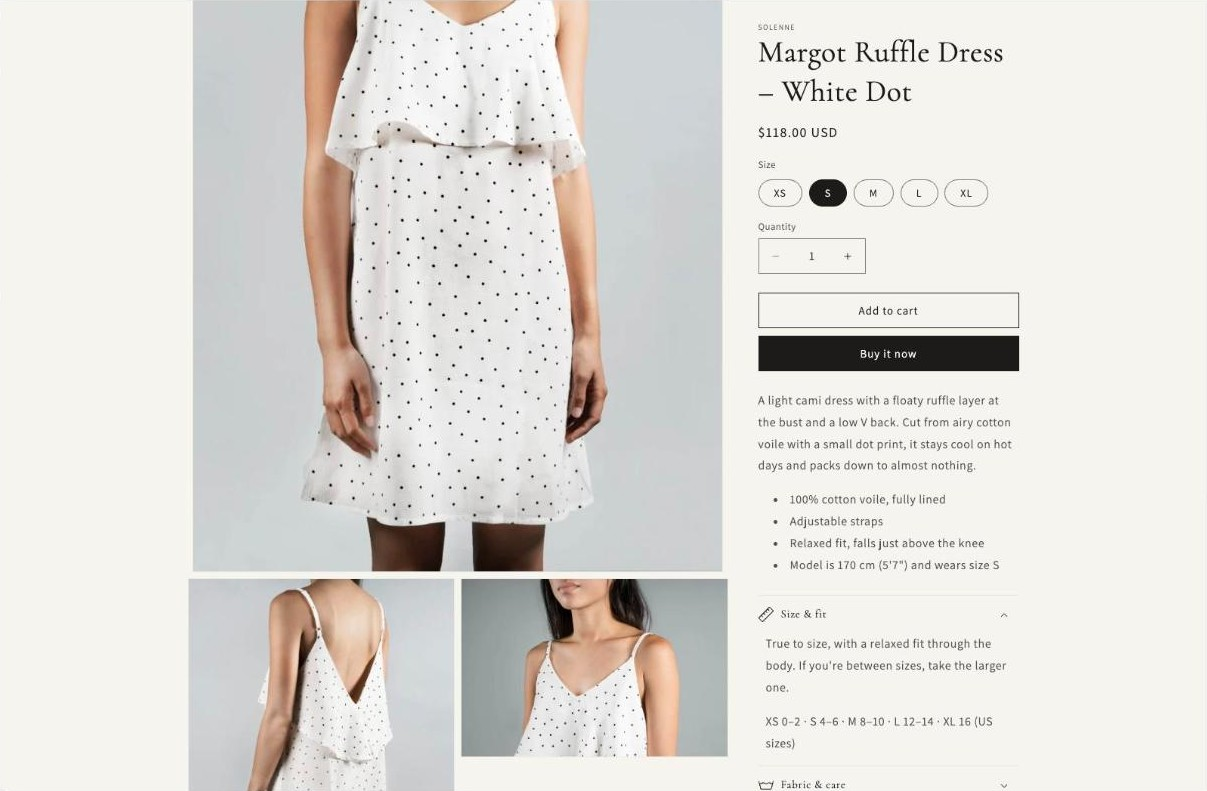
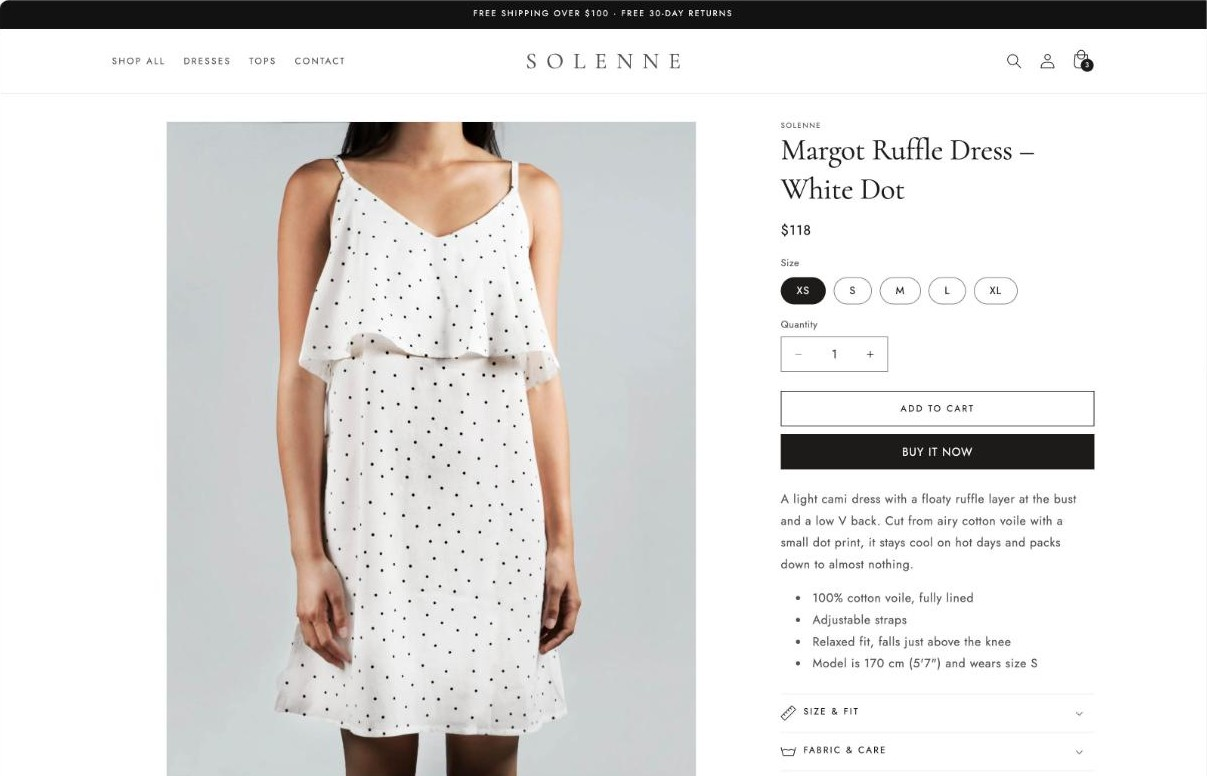
Shopify demo: premium store look and new screenshots
New brand layer on top of Dawn (wordmark, small uppercase labels,
product cards, lookbook, story block, trust row, footer), prices
without cents, phone header fix. Screenshots re-taken from the
published v4 theme; brand stylesheet added under store/.

Claude-Session: https://claude.ai/code/session_01FZvhtAYuoav6hM9DCPM7bq

diff --git a/07-shopify-sections/store/solenne-brand.css b/07-shopify-sections/store/solenne-brand.css
@@ -1,0 +1,150 @@
+/*
+  Solenne brand layer on top of Dawn.
+  Store styling only: wordmark, small uppercase labels, product card type, spacing.
+  Loaded after base.css in layout/theme.liquid.
+*/
+
+/* Wordmark: the shop name as a wide, uppercase logo */
+.header__heading-link .h2 {
+  font-family: var(--font-heading-family);
+  font-weight: 400;
+  font-size: 2.4rem;
+  line-height: 1;
+  letter-spacing: 0.42em;
+  margin-right: -0.42em; /* keeps the word optically centred */
+  text-transform: uppercase;
+  white-space: nowrap;
+}
+
+@media screen and (min-width: 990px) {
+  .header__heading-link .h2 {
+    font-size: 3rem;
+  }
+}
+
+/* Small uppercase labels: navigation, announcement, footer headings */
+.header__menu-item,
+.announcement-bar__message,
+.footer-block__heading,
+.multicolumn-card__info > h3,
+.image-with-text__text--caption {
+  font-family: var(--font-body-family);
+  font-weight: 400;
+  letter-spacing: 0.18em;
+  text-transform: uppercase;
+}
+
+.header__menu-item {
+  font-size: 1.2rem;
+}
+
+.announcement-bar__message {
+  font-size: 1.1rem;
+}
+
+.footer-block__heading {
+  font-size: 1.2rem;
+  margin-bottom: 2rem;
+}
+
+.multicolumn-card__info > h3 {
+  font-size: 1.3rem;
+  line-height: 1.6;
+}
+
+.menu-drawer__menu-item {
+  font-size: 1.5rem;
+  letter-spacing: 0.12em;
+  text-transform: uppercase;
+}
+
+/* Buttons */
+.button,
+.shopify-payment-button__button--unbranded {
+  font-size: 1.2rem;
+  letter-spacing: 0.18em;
+  text-transform: uppercase;
+}
+
+/* Product cards: quiet uppercase names, calm prices */
+.card__heading {
+  font-family: var(--font-body-family);
+  font-size: 1.25rem;
+  font-weight: 400;
+  letter-spacing: 0.1em;
+  line-height: 1.5;
+  text-transform: uppercase;
+}
+
+.card__heading a {
+  text-decoration: none;
+}
+
+.card-information .price {
+  font-size: 1.35rem;
+  letter-spacing: 0.06em;
+}
+
+.card-information {
+  margin-top: 0.4rem;
+}
+
+/* Section titles a little lighter and tighter */
+.title,
+.product__title h1 {
+  letter-spacing: -0.01em;
+}
+
+/* Product page price */
+.product .price--large {
+  font-size: 1.8rem;
+  letter-spacing: 0.06em;
+}
+
+/* Hide the "Powered by Shopify" credit */
+.copyright__content a[href*='shopify.com'] {
+  display: none;
+}
+
+/* Phones: a smaller wordmark and announcement so the header fits on one line */
+@media screen and (max-width: 749px) {
+  .header__heading-link .h2 {
+    font-size: 2rem;
+    letter-spacing: 0.3em;
+    margin-right: -0.3em;
+  }
+
+  .announcement-bar__message {
+    font-size: 1rem;
+    letter-spacing: 0.08em;
+  }
+
+  .utility-bar__grid.page-width {
+    padding-left: 1.5rem;
+    padding-right: 1.5rem;
+  }
+}
+
+/* Even line breaks in the hero heading and subheading */
+.hero-media__heading,
+.hero-media__text {
+  text-wrap: balance;
+}
+
+/* Product page tabs and the share link as small uppercase labels */
+.product .accordion__title,
+.share-button__button {
+  font-family: var(--font-body-family);
+  font-size: 1.2rem;
+  letter-spacing: 0.18em;
+  text-transform: uppercase;
+}
+
+/* Cart: item names in the same style as the product cards */
+.cart-item .cart-item__name {
+  font-family: var(--font-body-family);
+  font-size: 1.25rem;
+  letter-spacing: 0.1em;
+  line-height: 1.5;
+  text-transform: uppercase;
+}

diff --git a/07-shopify-sections/README.md b/07-shopify-sections/README.md
@@ -21,7 +21,7 @@ Three custom Online Store 2.0 sections for **Solenne**, a fictional summer cloth
 
 `snippets/free-shipping-bar.liquid` + `assets/component-free-shipping-bar.css`
 
-- Shows "You're $62.00 away from free shipping" with a progress bar in the cart drawer and on the cart page, then "You've unlocked free shipping".
+- Shows "You're $62 away from free shipping" with a progress bar in the cart drawer and on the cart page, then "You've unlocked free shipping".
 - It sits inside the parts of the cart that Dawn re-renders after every change, so it updates instantly without extra JavaScript.
 - Theme settings → Free shipping bar: on/off, the goal, both messages (`[amount]` is replaced with the amount left), bar and track colours.
 
@@ -40,7 +40,7 @@ Three custom Online Store 2.0 sections for **Solenne**, a fictional summer cloth
 
 ## The store around the sections
 
-The demo store is password-protected, so here is the whole home page and a product page. The product page uses Dawn's own blocks with size, fabric and shipping tabs.
+The demo store is password-protected, so here is the whole home page and a product page. Everything around the three sections is Dawn's own sections and settings (lookbook, story block, size, fabric and shipping tabs on the product page), plus one small stylesheet for the brand look: `store/solenne-brand.css` (the wordmark, small uppercase labels, product cards, a phone fix for the header).
 
 ![Home page of the demo store](screenshots/store-home.jpg)
 
